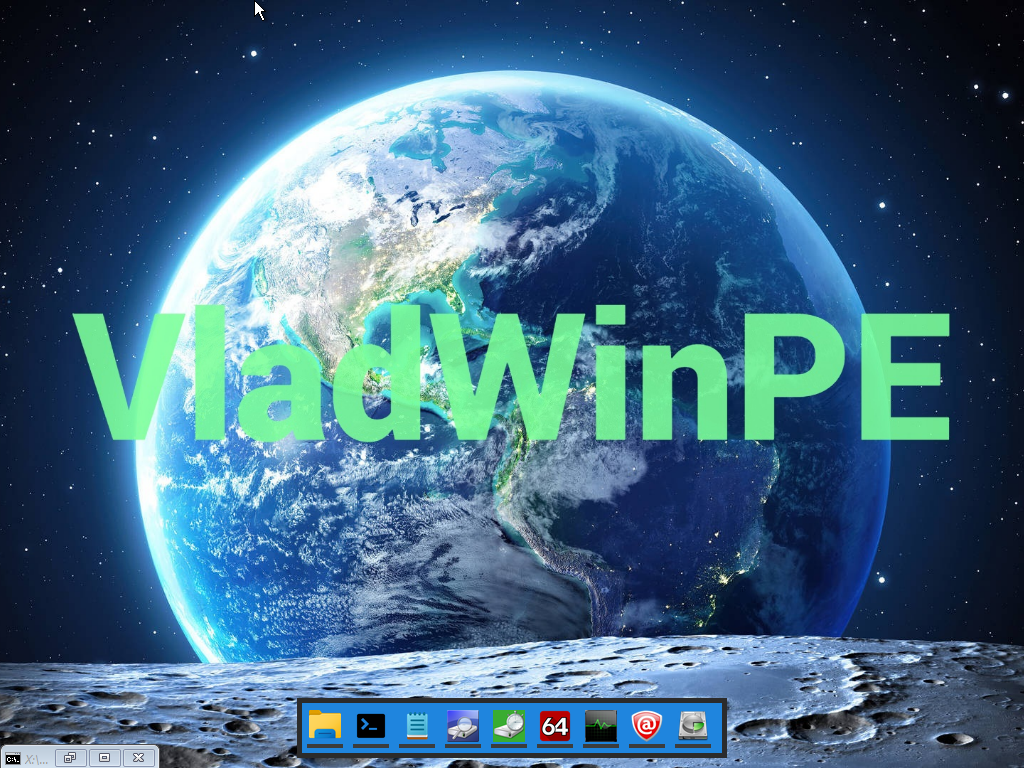
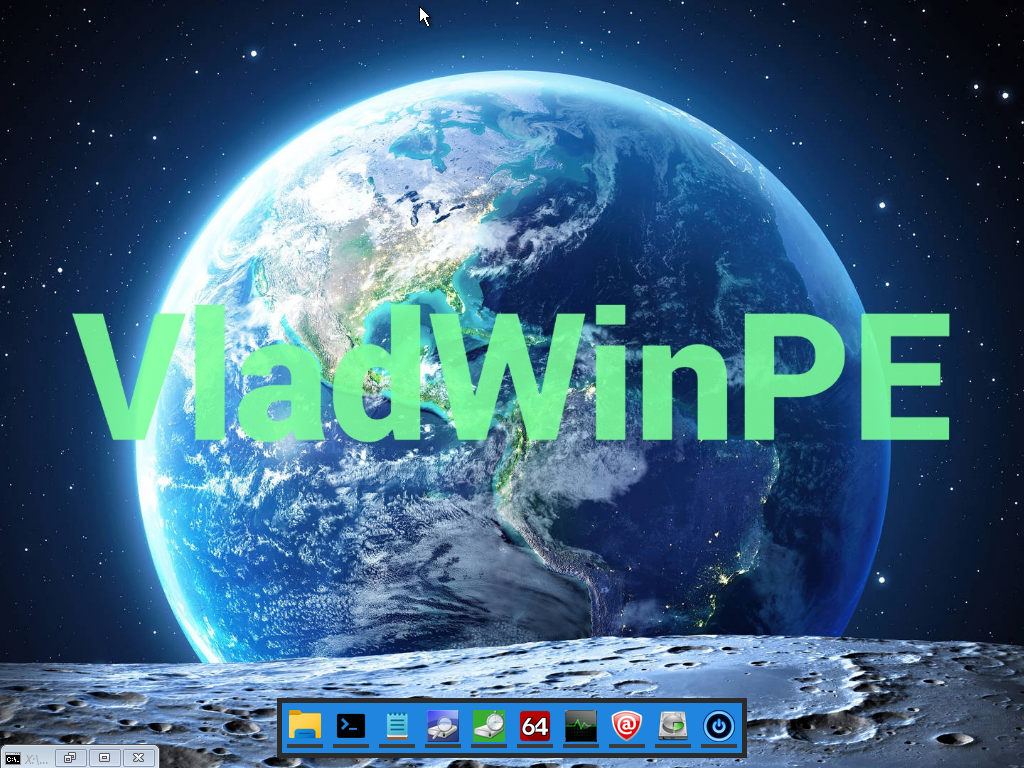
Added power off app

Changed region(s): [[0.25, 0.9062, 0.75, 1.0], [0.4062, 0.0, 0.4375, 0.0312], [0.25, 0.0, 0.2812, 0.0312]]

diff --git a/portableoff.py b/portableoff.py
@@ -1,0 +1,72 @@
+# winpe_utility_tkinter.py
+import os
+import tkinter as tk
+from tkinter import messagebox
+
+
+class WinPEUtility:
+    def __init__(self, root):
+        self.root = root
+        self.root.title("Выключение VladWinPE")
+        self.root.geometry("300x70")
+        self.root.resizable(False, False)
+
+        # Центрирование окна
+        self.center_window()
+
+        self.create_widgets()
+
+    def center_window(self):
+        self.root.update_idletasks()
+        width = self.root.winfo_width()
+        height = self.root.winfo_height()
+        x = (self.root.winfo_screenwidth() // 2) - (width // 2)
+        y = (self.root.winfo_screenheight() // 2) - (height // 2)
+        self.root.geometry(f'{width}x{height}+{x}+{y}')
+
+    def create_widgets(self):
+        # Основной frame
+        main_frame = tk.Frame(self.root, padx=5)
+        main_frame.pack(expand=True, fill='both')
+
+        # Кнопка выключения
+        shutdown_btn = tk.Button(main_frame,
+                                 text="Выключить",
+                                 bg="#e74c3c",
+                                 fg="white",
+                                 width=50,
+                                 command=self.shutdown)
+        shutdown_btn.pack(pady=5)
+
+        # Кнопка перезагрузки
+        restart_btn = tk.Button(main_frame,
+                                text="Перезагрузить",
+                                bg="#3498db",
+                                fg="white",
+                                width=50,
+                                command=self.restart)
+        restart_btn.pack()
+
+    def shutdown(self):
+        if messagebox.askyesno("Подтверждение", "Вы уверены, что хотите выключить компьютер?"):
+            try:
+                os.system("wpeutil shutdown")
+            except Exception as e:
+                messagebox.showerror("Ошибка", f"Не удалось выключить компьютер: {str(e)}")
+
+    def restart(self):
+        if messagebox.askyesno("Подтверждение", "Вы уверены, что хотите перезагрузить компьютер?"):
+            try:
+                os.system("wpeutil reboot")
+            except Exception as e:
+                messagebox.showerror("Ошибка", f"Не удалось перезагрузить компьютер: {str(e)}")
+
+
+def main():
+    root = tk.Tk()
+    app = WinPEUtility(root)
+    root.mainloop()
+
+
+if __name__ == "__main__":
+    main()

diff --git a/script.py b/script.py
@@ -34,7 +34,7 @@ class WinPETaskbar:
             "taskbar": {
                 "position": "bottom",
                 "height": 60,
-                "width": 430,
+                "width": 470,
                 "corner_radius": 15,
                 "background_color": "#1F85DE",
                 "opacity": 0.9
@@ -100,6 +100,13 @@ class WinPETaskbar:
                     "name": "Partition Wizard",
                     "executable": "X:/Windows/_internal/partitionwizard/partitionwizard.exe",
                     "icon_path": "X:/Windows/_internal/icons/diskmgmt.png",
+                    "icon_index": 0,
+                    "working_directory": ""
+                },
+                {
+                    "name": "Power OFF",
+                    "executable": "X:/Windows/_internal/PortableOff.exe",
+                    "icon_path": "X:/Windows/_internal/icons/powerbtn.png",
                     "icon_index": 0,
                     "working_directory": ""
                 }
@@ -203,7 +210,6 @@ class WinPETaskbar:
         try:
             if working_directory and os.path.exists(working_directory):
                 os.chdir(working_directory)
-
             # Использовать os.system для простоты в WinPE
             os.system(f'start "" "{executable}"')
 

diff --git a/README.md b/README.md
@@ -3,7 +3,7 @@ Meet the lightest WinPE that will fit on any USB stick!
 <img src="img1.png">
 <img src="img2.png">
 
-Image size: 655 MB. 
+Image size: 1,39 Gb. 
 ## A set of portable programs (downloaded from official websites):
 - AIDA 64 EXTREME
 - CrystalDiskInfo
@@ -28,11 +28,11 @@ Just [download](https://github.com/VladislavBanitsky/VladWinPE/releases/tag/v.1.
 
 `Dism /Mount-Image /ImageFile:"D:\VladPE_2025\media\sources\boot.wim" /index:1 /MountDir:"D:\VladPE_2025\mount"`
 
+`Dism /Add-Package /Image:"D:\VladPE_2025\mount" /PackagePath:"D:\Windows Kits\10\Assessment and Deployment Kit\Windows Preinstallation Environment\amd64\WinPE_OCs\WinPE-NetFX.cab"`
+
 `Dism /Add-Package /Image:"D:\VladPE_2025\mount" /PackagePath:"D:\Windows Kits\10\Assessment and Deployment Kit\Windows Preinstallation Environment\amd64\WinPE_OCs\WinPE-Scripting.cab"`
 
 `Dism /Add-Package /Image:"D:\VladPE_2025\mount" /PackagePath:"D:\Windows Kits\10\Assessment and Deployment Kit\Windows Preinstallation Environment\amd64\WinPE_OCs\WinPE-WMI.cab"`
-
-`Dism /Add-Package /Image:"D:\VladPE_2025\mount" /PackagePath:"D:\Windows Kits\10\Assessment and Deployment Kit\Windows Preinstallation Environment\amd64\WinPE_OCs\WinPE-NetFX.cab"`
 
 `Dism /Add-Package /Image:"D:\VladPE_2025\mount" /PackagePath:"D:\Windows Kits\10\Assessment and Deployment Kit\Windows Preinstallation Environment\amd64\WinPE_OCs\WinPE-SecureStartup.cab"`
 
@@ -44,19 +44,20 @@ Just [download](https://github.com/VladislavBanitsky/VladWinPE/releases/tag/v.1.
 
 3. Download your favourite apps as portable, then create folders for each of them in folder `!portableApps`, also download icons (recommended 256x256px) and save them into the folder `icons` (in folder `!portableApps`). Then edit `default_config` JSON-variable in file `script.py`: enter correct paths to apps and icons
 
-4. Create exe-file by pyintsaller from script.py and folder `!portableApps` with apps and icons added on previous step:
+4. Create power off switcher file and then put in into `!portableApps` folder:
+`pyinstaller "D:/Program_files/JetBrains/VladWinPE/portableoff.py" --name "PortableOff" --windowed --onefile"`
+
+5. Create exe-file by pyintsaller from script.py and folder `!portableApps` with apps and icons added on previous step:
 `pyinstaller "D:/Program_files/JetBrains/VladWinPE/script.py" --name "PortableTaskbar" --windowed --add-data "D:/Program_files/JetBrains/VladWinPE/!portableApps/*;."`
 
-5. Put in folder `_internal` with portable apps and icons and `PortableTaskbar.exe` created by pyinstaller on previous step into the folder `Windows` in path `D:\VladPE_2025\mount\Windows`
+6. Put in folder `_internal` with portable apps and icons and `PortableTaskbar.exe` created by pyinstaller on previous step into the folder `Windows` in path `D:\VladPE_2025\mount\Windows`
 
-6. Automatic startup `PortableTaskbar.exe` is already registered in `startnet.cmd`. You can add also special what do you want
+7. Automatic startup `PortableTaskbar.exe` is already registered in `startnet.cmd`. You can add also special what do you want
 
-7. Replace files `winpe.jpg` and `startnet.cmd` in the folder `D:/VladPE_2025/mount/Windows/System32`. You may need to change the file permissions in their properties
+8. Replace files `winpe.jpg` and `startnet.cmd` in the folder `D:/VladPE_2025/mount/Windows/System32`. You may need to change the file permissions in their properties
 
-8. Save changes and unmount the image by entering the commands:
+9. Save changes and unmount the image by entering the commands:
 
 `Dism /Unmount-Image /MountDir:"D:\VladPE_2025\mount" /commit`
 
 `MakeWinPEMedia /ISO D:\VladPE_2025 D:\VladWinPE_2025.iso`
-
-
